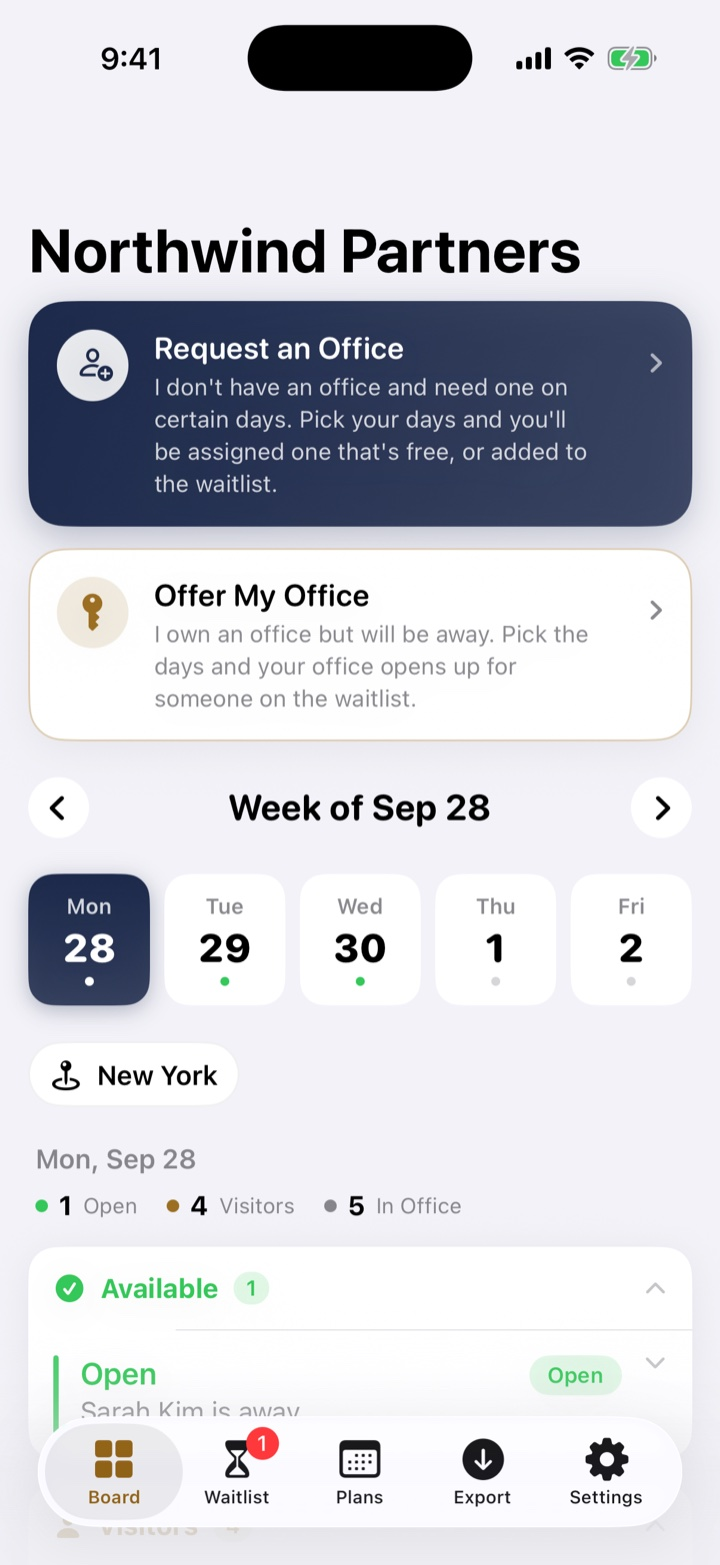
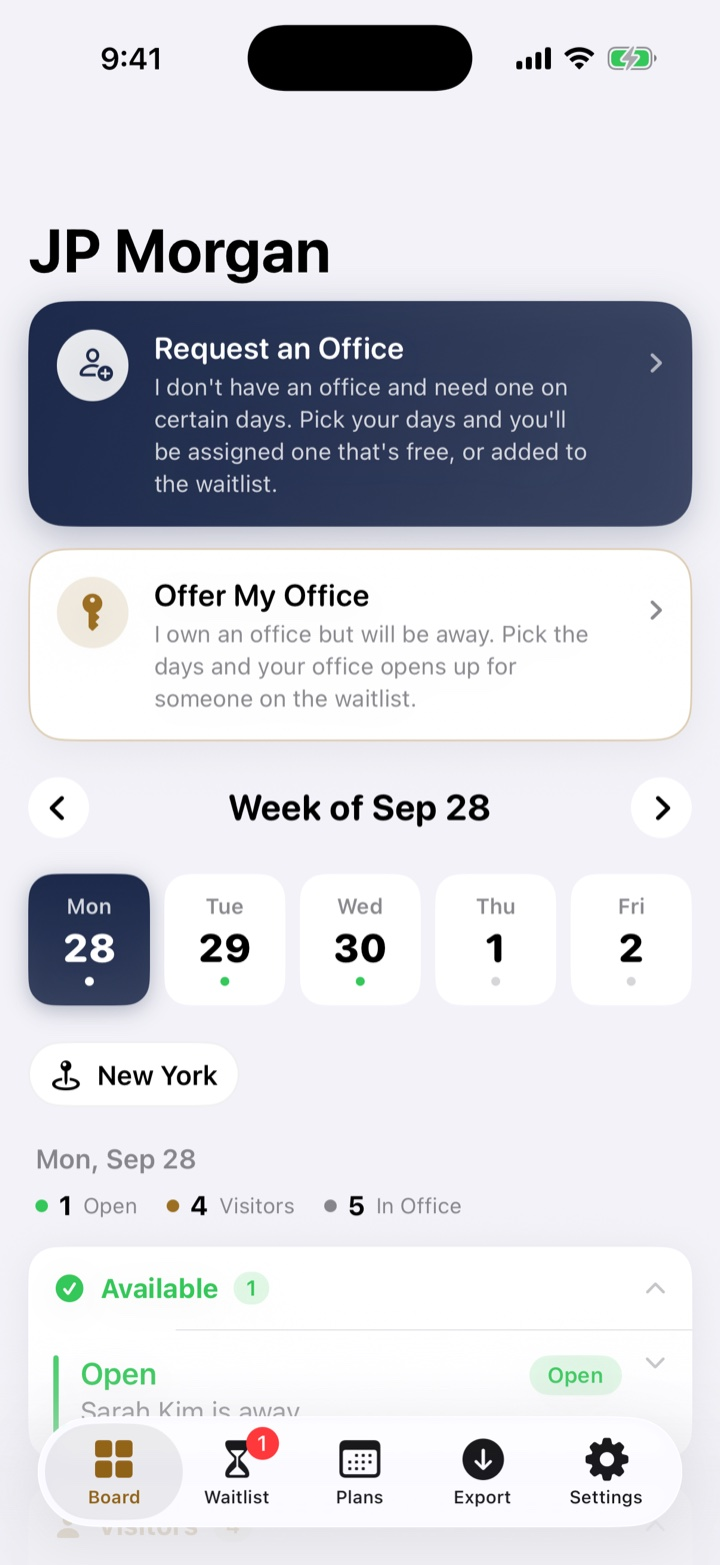
Show JP Morgan as the organization in the Board screenshot

Changed region(s): [[0.0306, 0.1227, 0.825, 0.184]]

diff --git a/index.html b/index.html
@@ -7,7 +7,7 @@
 <meta name="description" content="OfficeSwap lets office owners offer their office on days they're away and gives it automatically to someone who needs one. First come, first served.">
 <meta property="og:title" content="OfficeSwap">
 <meta property="og:description" content="Every office, in use. Requests are matched to open offices automatically.">
-<meta property="og:image" content="https://benjaminwald1.github.io/officeswap-legal/images/board.jpg">
+<meta property="og:image" content="https://benjaminwald1.github.io/officeswap-legal/images/board.jpg?v=2">
 <link rel="icon" href="logo.png">
 <link rel="apple-touch-icon" href="logo.png">
 <link rel="preconnect" href="https://fonts.googleapis.com">
@@ -41,7 +41,7 @@
   </div>
   <div class="phones" aria-hidden="false">
     <div class="iphone p-left"><img src="images/waitlist.jpg" alt="The Waitlist tab in OfficeSwap" width="720" height="1565"></div>
-    <div class="iphone p-center"><img src="images/board.jpg" alt="The Board tab in OfficeSwap, showing open offices and visitors for the day" width="720" height="1565"></div>
+    <div class="iphone p-center"><img src="images/board.jpg?v=2" alt="The Board tab in OfficeSwap, showing open offices and visitors for the day" width="720" height="1565"></div>
     <div class="iphone p-right"><img src="images/plans.jpg" alt="The Plans tab in OfficeSwap, listing requests and the office each person got" width="720" height="1565"></div>
   </div>
 </section>
@@ -83,7 +83,7 @@
     <div class="stage reveal">
       <div class="iphone lg">
         <div class="screen" id="screen">
-          <img class="on" src="images/board.jpg" alt="Board tab" width="720" height="1565">
+          <img class="on" src="images/board.jpg?v=2" alt="Board tab" width="720" height="1565">
           <img src="images/waitlist.jpg" alt="Waitlist tab" width="720" height="1565" loading="lazy">
           <img src="images/plans.jpg" alt="Plans tab" width="720" height="1565" loading="lazy">
           <img src="images/export.jpg" alt="Export tab" width="720" height="1565" loading="lazy">
